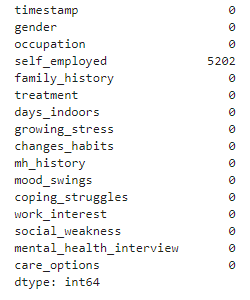
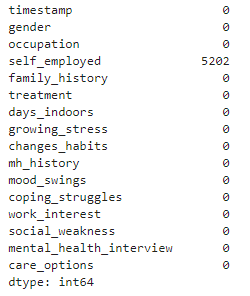
Updated project file and added new image

Changed region(s): [[0.028, 0.0, 0.728, 0.973], [0.868, 0.3041, 0.952, 0.9122], [0.812, 0.0, 0.952, 0.2736]]

diff --git a/projects/_posts/2024-04-06-mental-health.md b/projects/_posts/2024-04-06-mental-health.md
@@ -49,6 +49,18 @@ missing_values_count = df.isnull().sum()
 # Print the count of missing values for each column
 print(missing_values_count)
 ~~~
-<img align="left" width="250" height="300" src="/assets/img/mental-health/missing-values.png">
+<img align="right" width="250" height="300" src="/assets/img/mental-health/missing-values.png">
 5202 missing value counts.
+{:.figure}
+
+~~~python
+# Drop rows with missing self_employed values
+df = df.dropna(subset=['self_employed'])
+# Check for missing values in each column
+missing_values_count = df.isnull().sum()
+# Print the count of missing values for each column
+print(missing_values_count)
+~~~
+<img align="right" width="250" height="300" src="/assets/img/mental-health/zero-missing-values.png">
+0 missing value counts.
 {:.figure}
